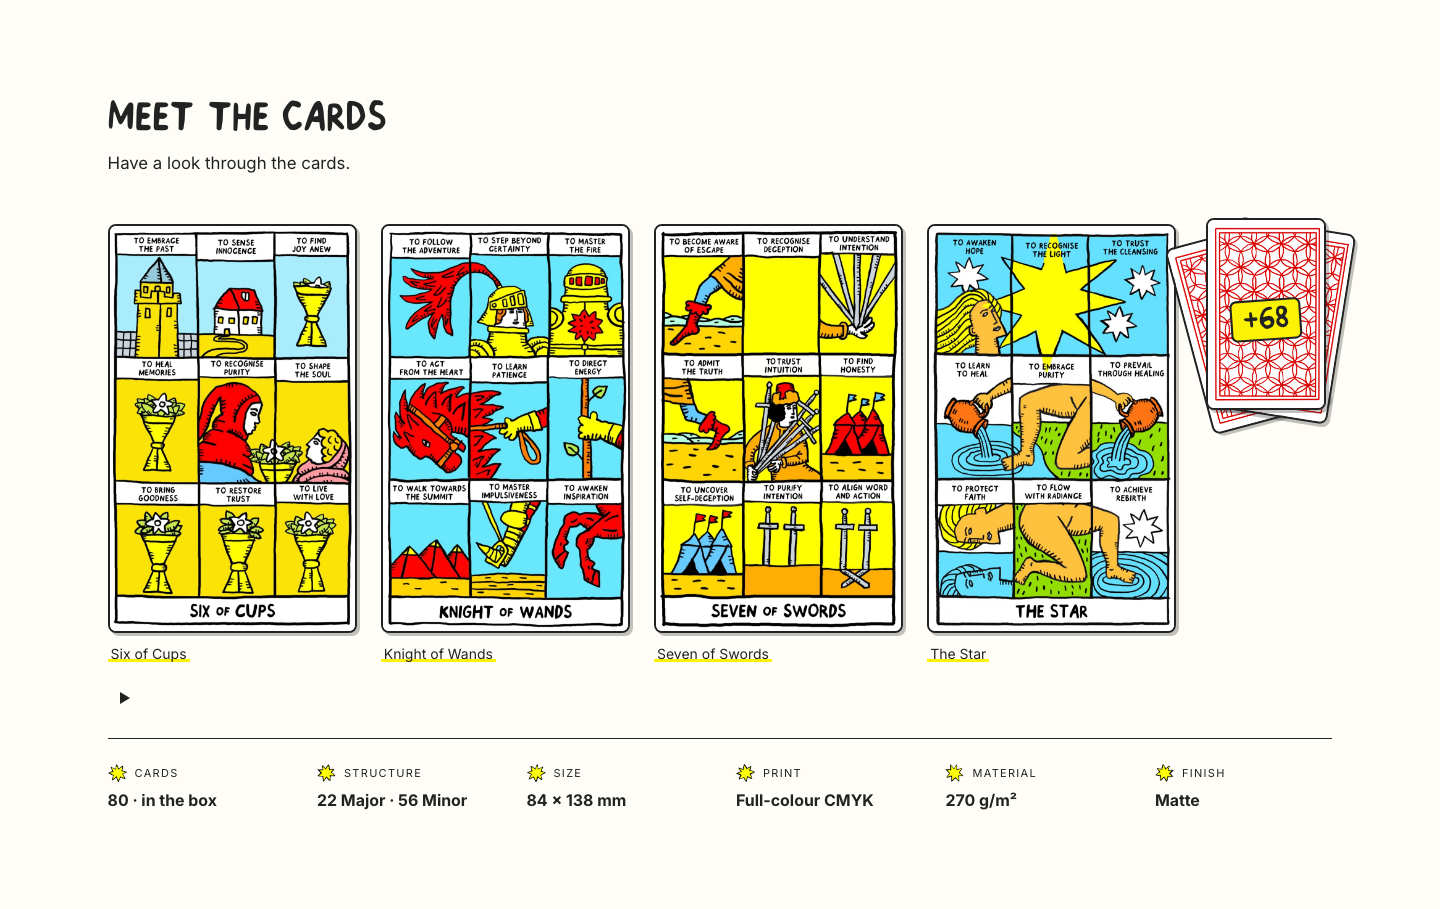
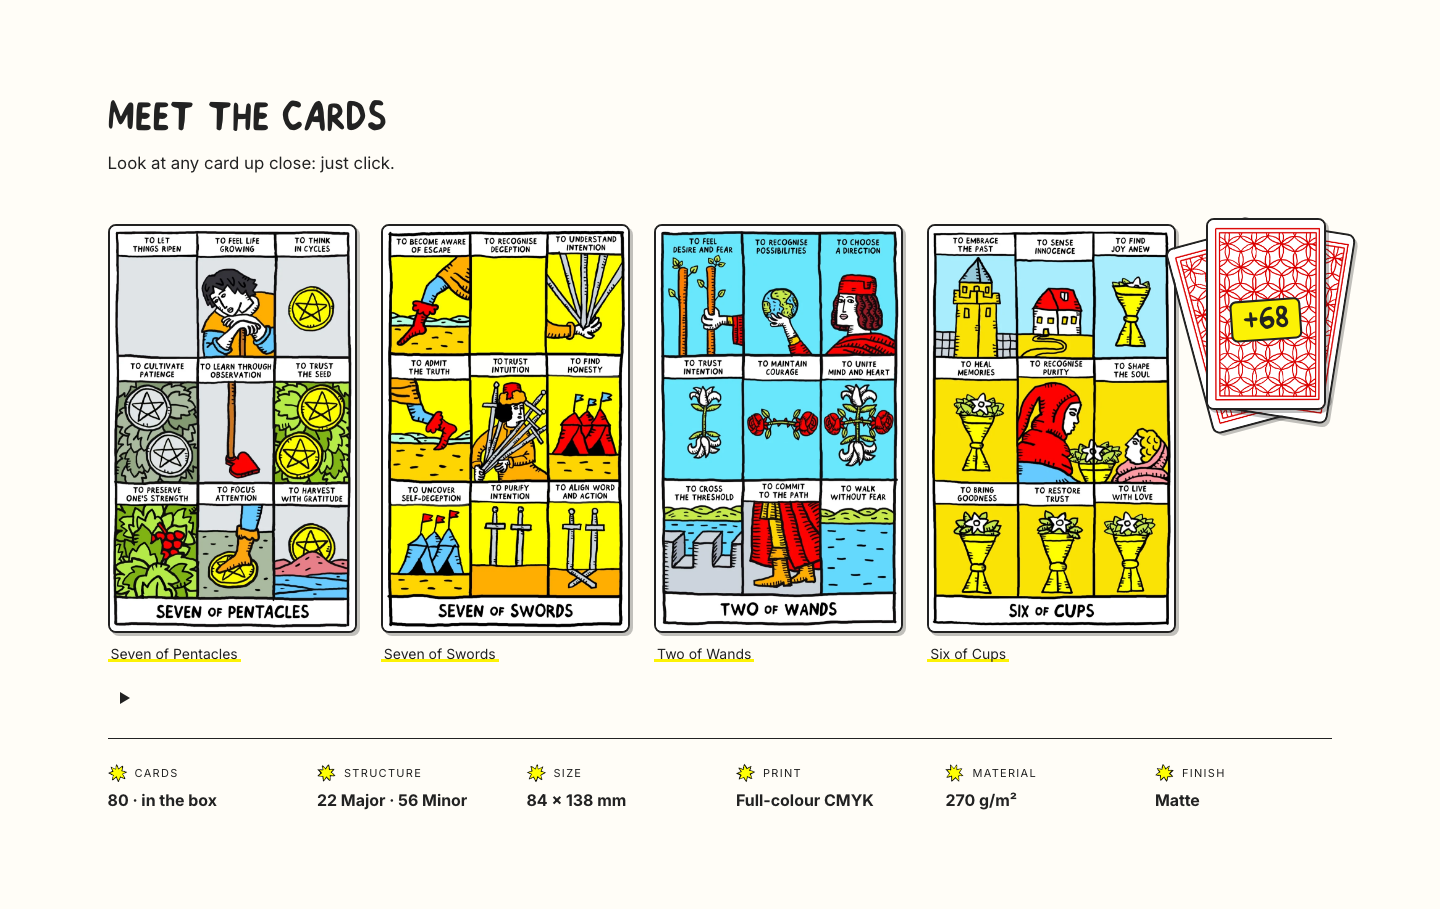
S3 subtitle: 'Look at any card up close: just click.' (SK recorded for Translate & Adapt)

Changed region(s): [[0.0625, 0.2464, 0.8125, 0.7393], [0.0625, 0.154, 0.2812, 0.1848]]

diff --git a/docs/design/SECTIONS-COPY.md b/docs/design/SECTIONS-COPY.md
@@ -7,7 +7,7 @@ Nothing here is live: it is the copy inside `docs/design/mockups/page-sections.h
 | | SK | EN |
 |---|---|---|
 | Heading | Karty zblízka | Meet the cards |
-| Lead | Prezrite si karty. | Have a look through the cards. |
+| Lead | Prezrite si karty zblízka — stačí kliknúť. | Look at any card up close: just click. |
 | Hint (fades) | Otáčajú sa samy. Pozastavte ich alebo kliknite na niektorú a prečítajte si ju. | They flip on their own. Pause them, or click one to read it. |
 | Pause button | Pozastaviť karty / Nechať ich otáčať | Pause the cards / Let them turn again |
 | Pile | V krabičke | In the box |
